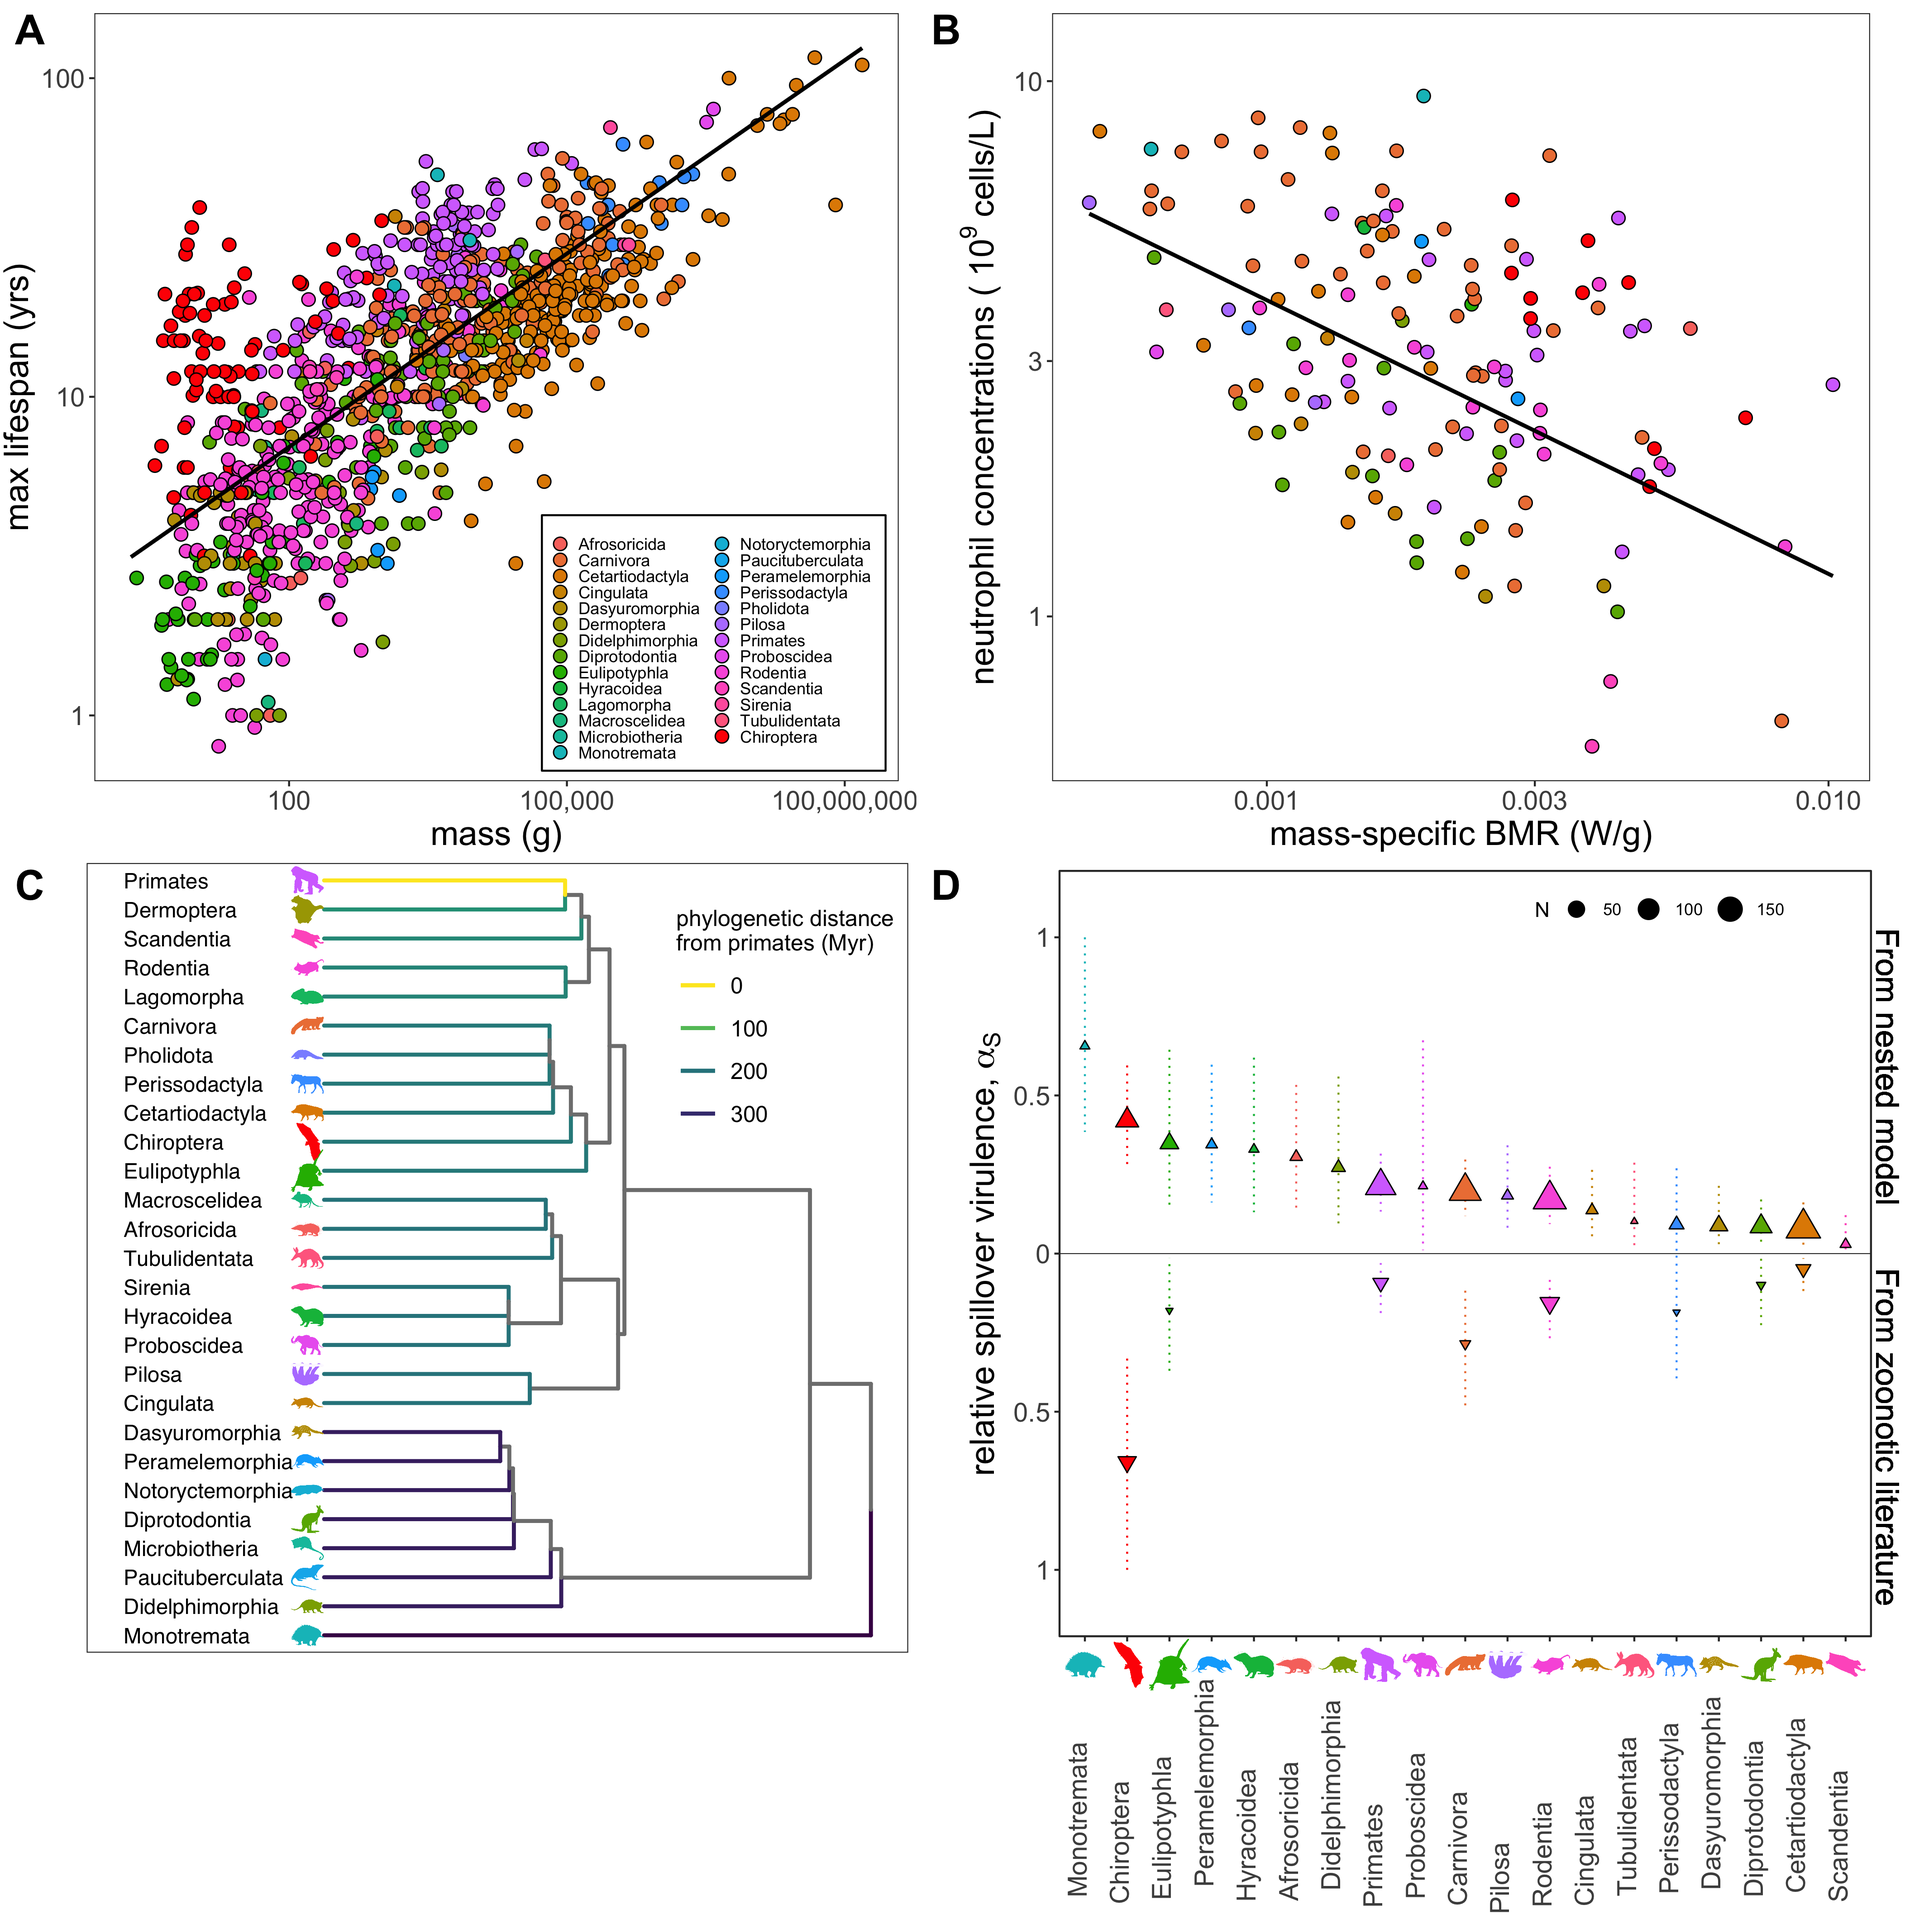
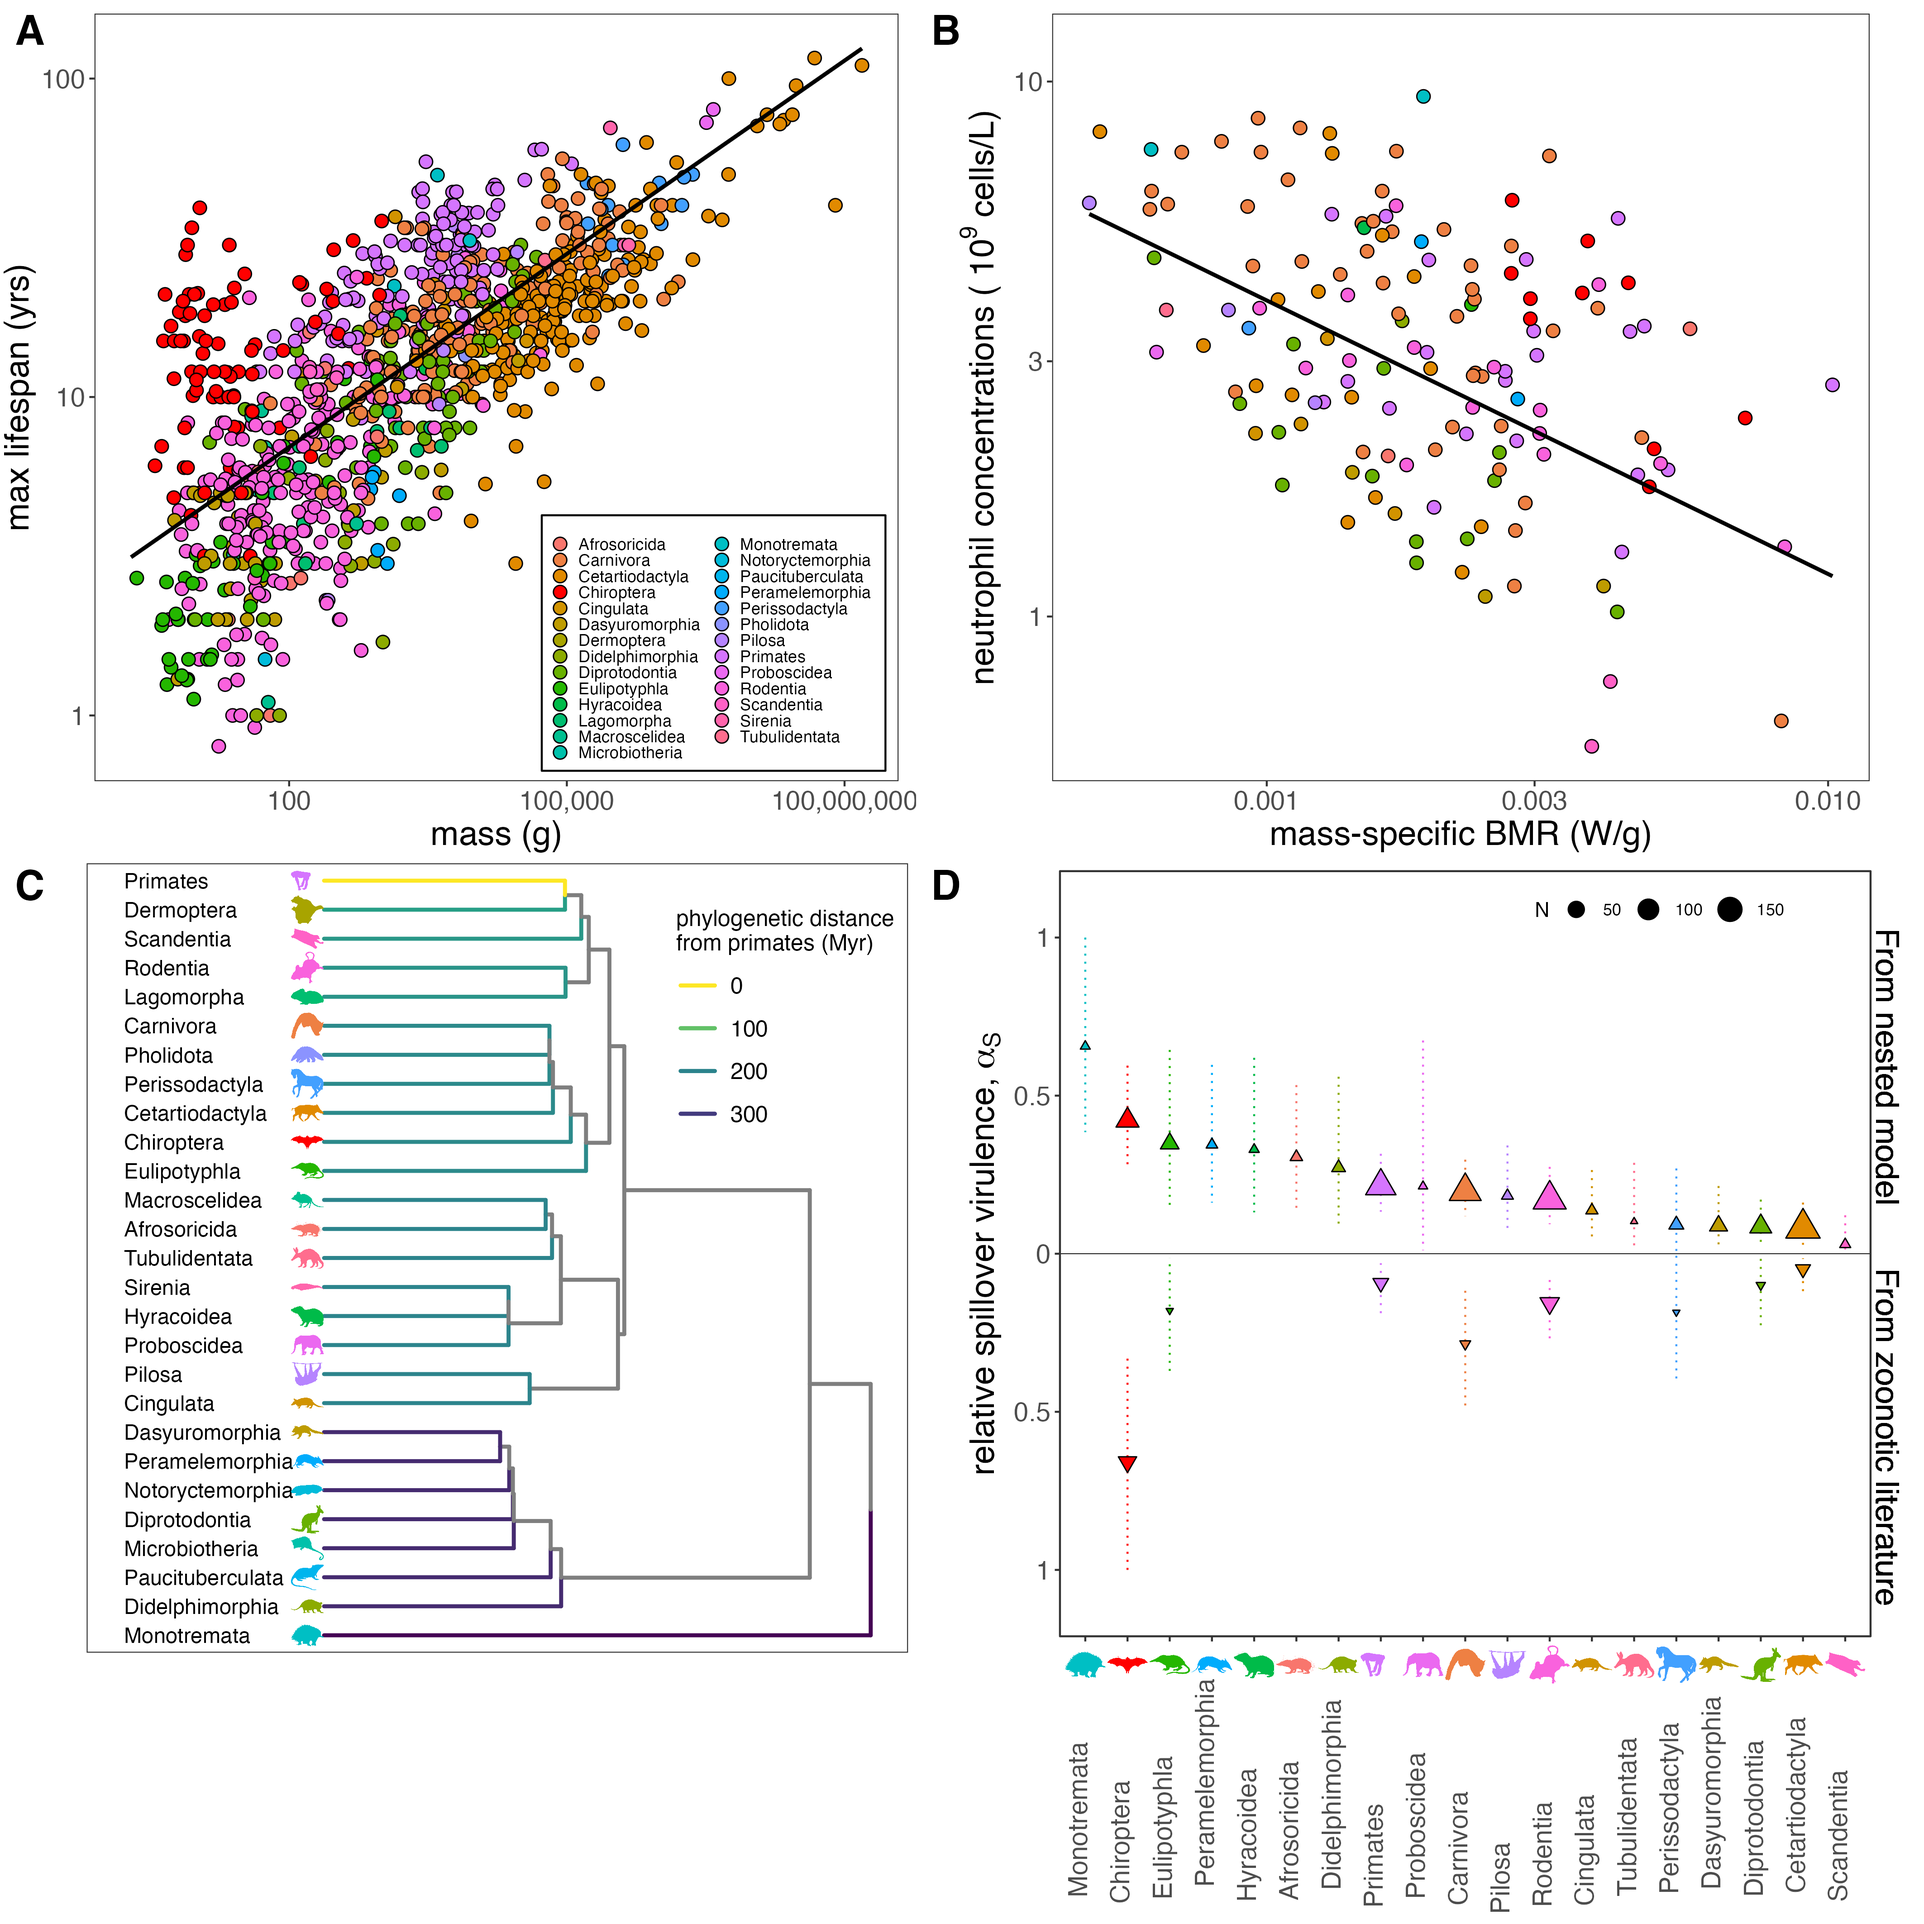
updated phylopics

diff --git a/README.md b/README.md
@@ -1,6 +1,6 @@
 # spillover-virulence
 
-This repository compiles code for [Brook et al. 2022](https://doi.org/10.1101/2021.10.06.463372), "Reservoir host immunology and life history shape virulence evolution in zoonotic viruses", currently in review. You should be able to reproduce all analyses by cloning this repo to your computer and editing the "homewd" address to your own working directory at the top of each R-script. 
+This repository compiles code for [Brook et al. 2022](https://doi.org/10.1101/2021.10.06.463372), "Reservoir host immunology and life history shape virulence evolution in zoonotic viruses", currently in revision. You should be able to reproduce all analyses by cloning this repo to your computer and editing the "homewd" address to your own working directory at the top of each R-script. 
 
 There are ten main folders:
 
